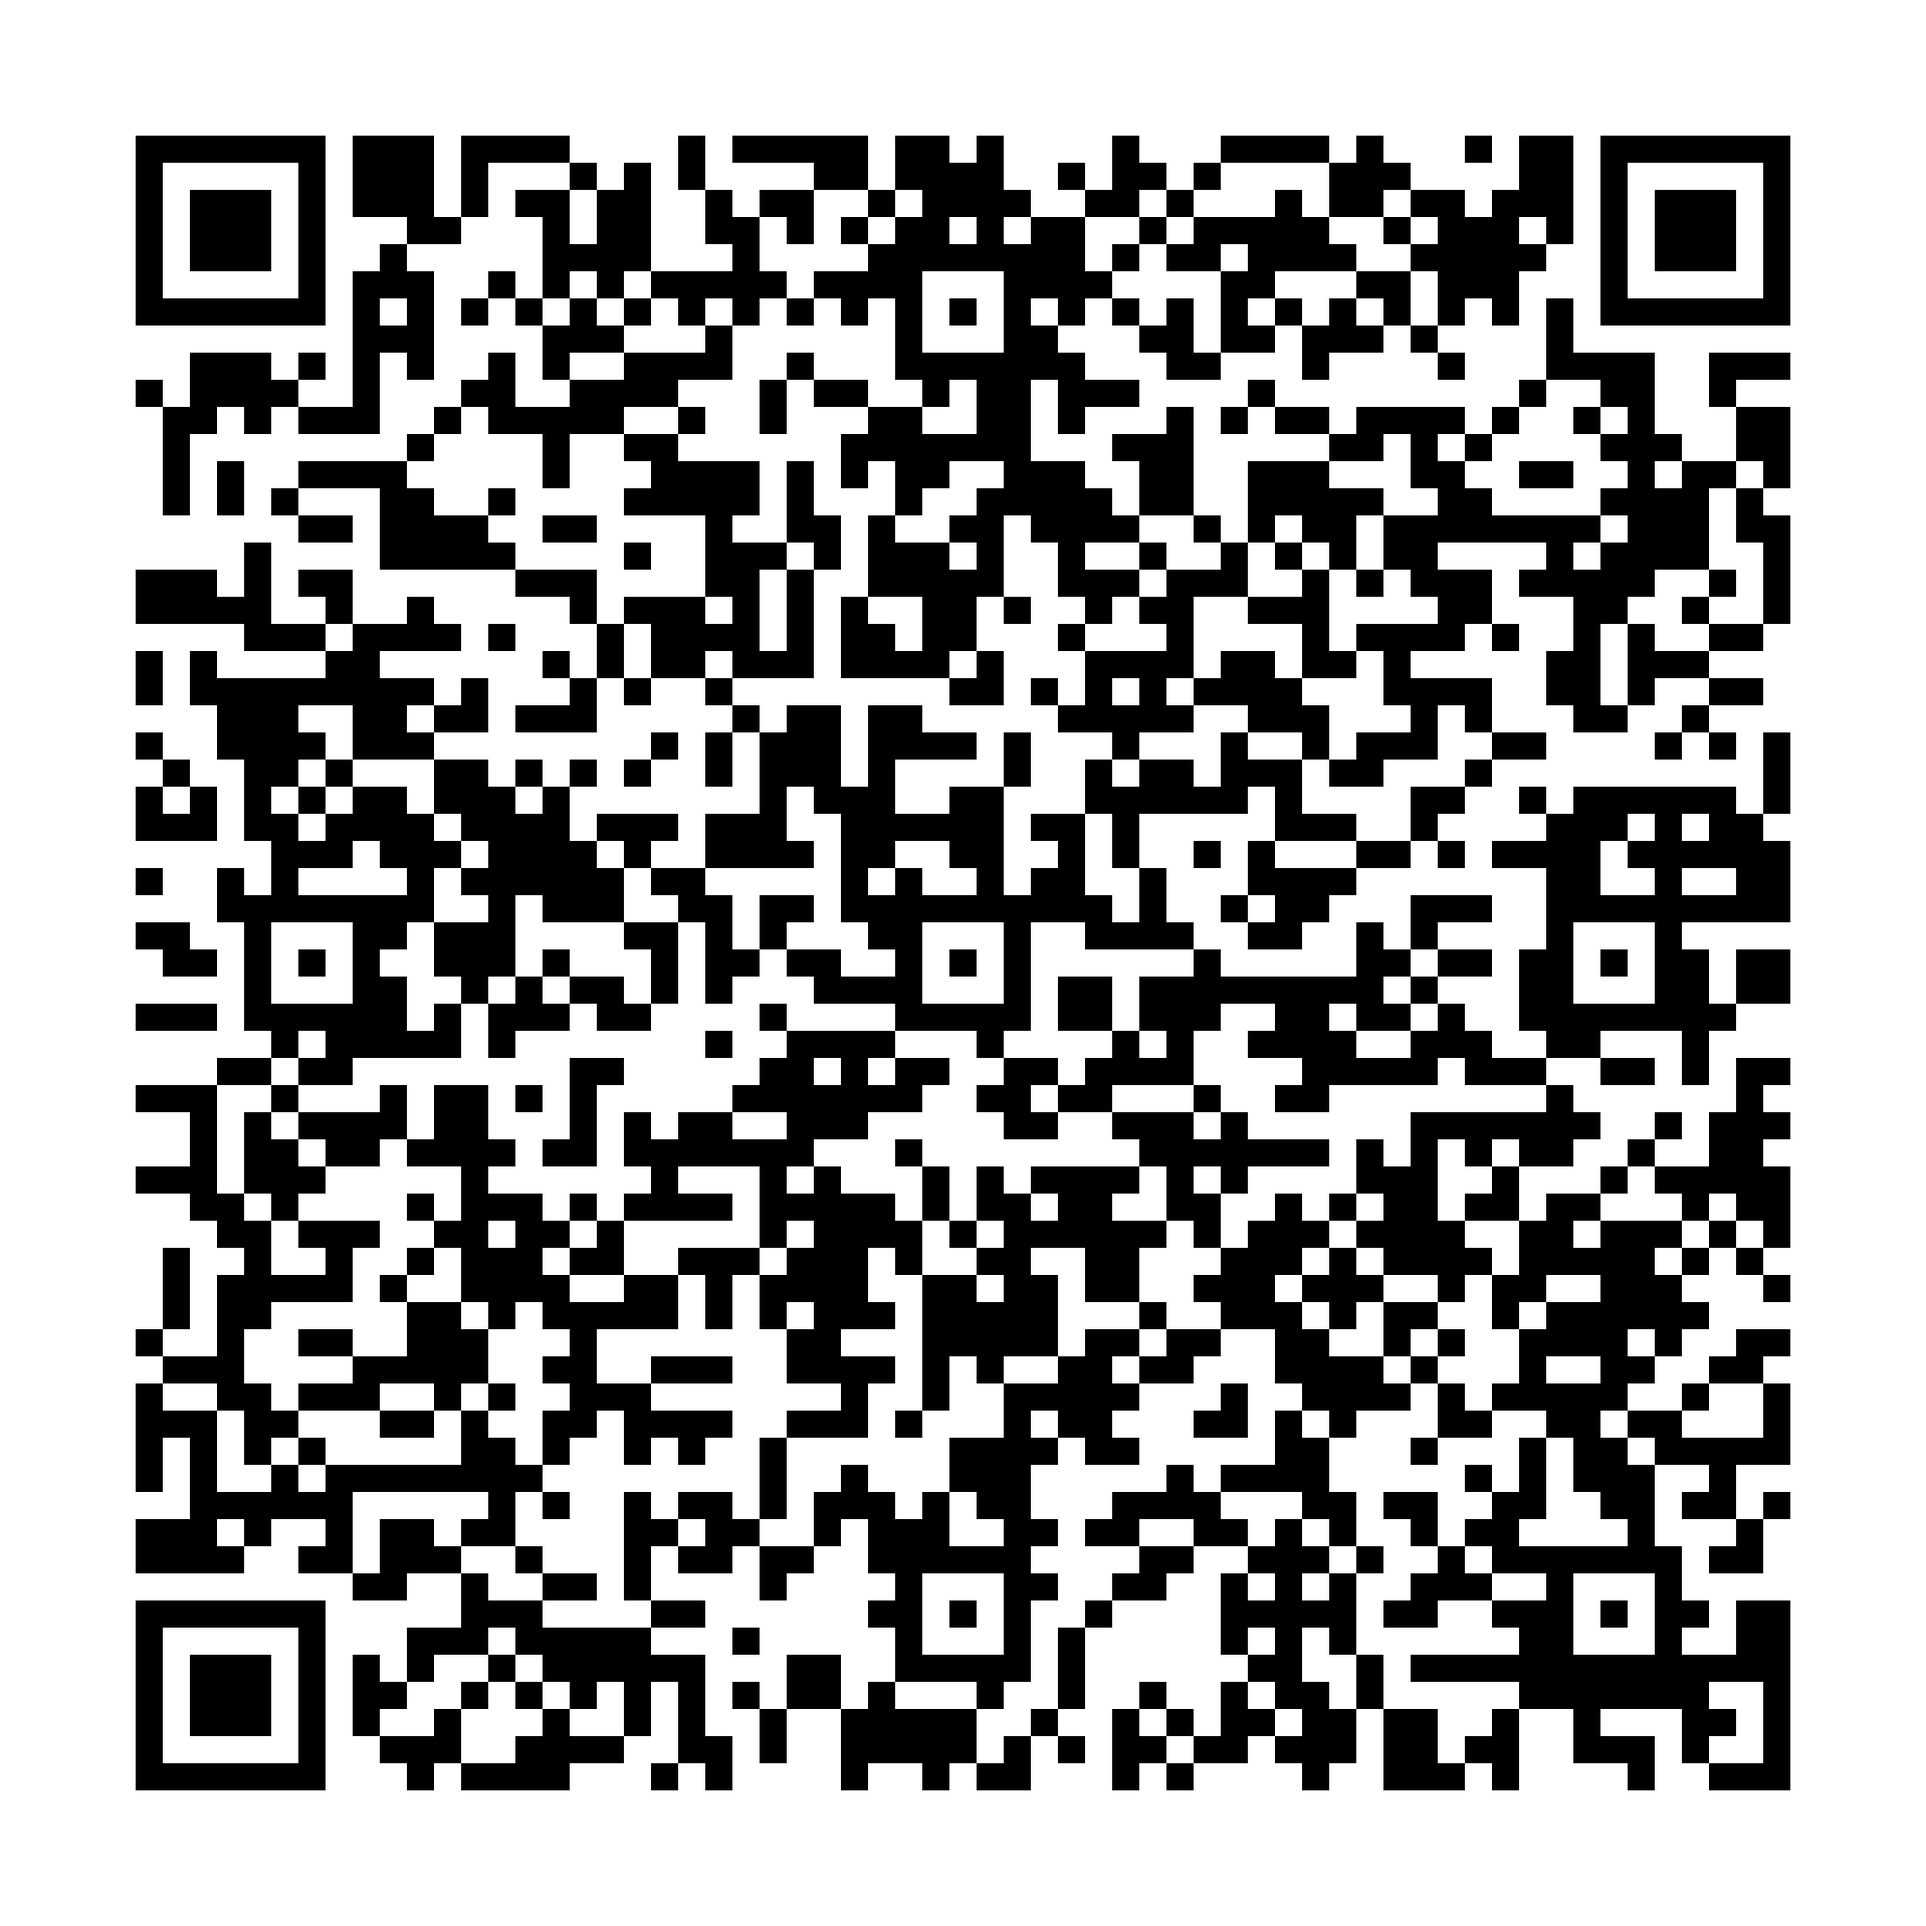
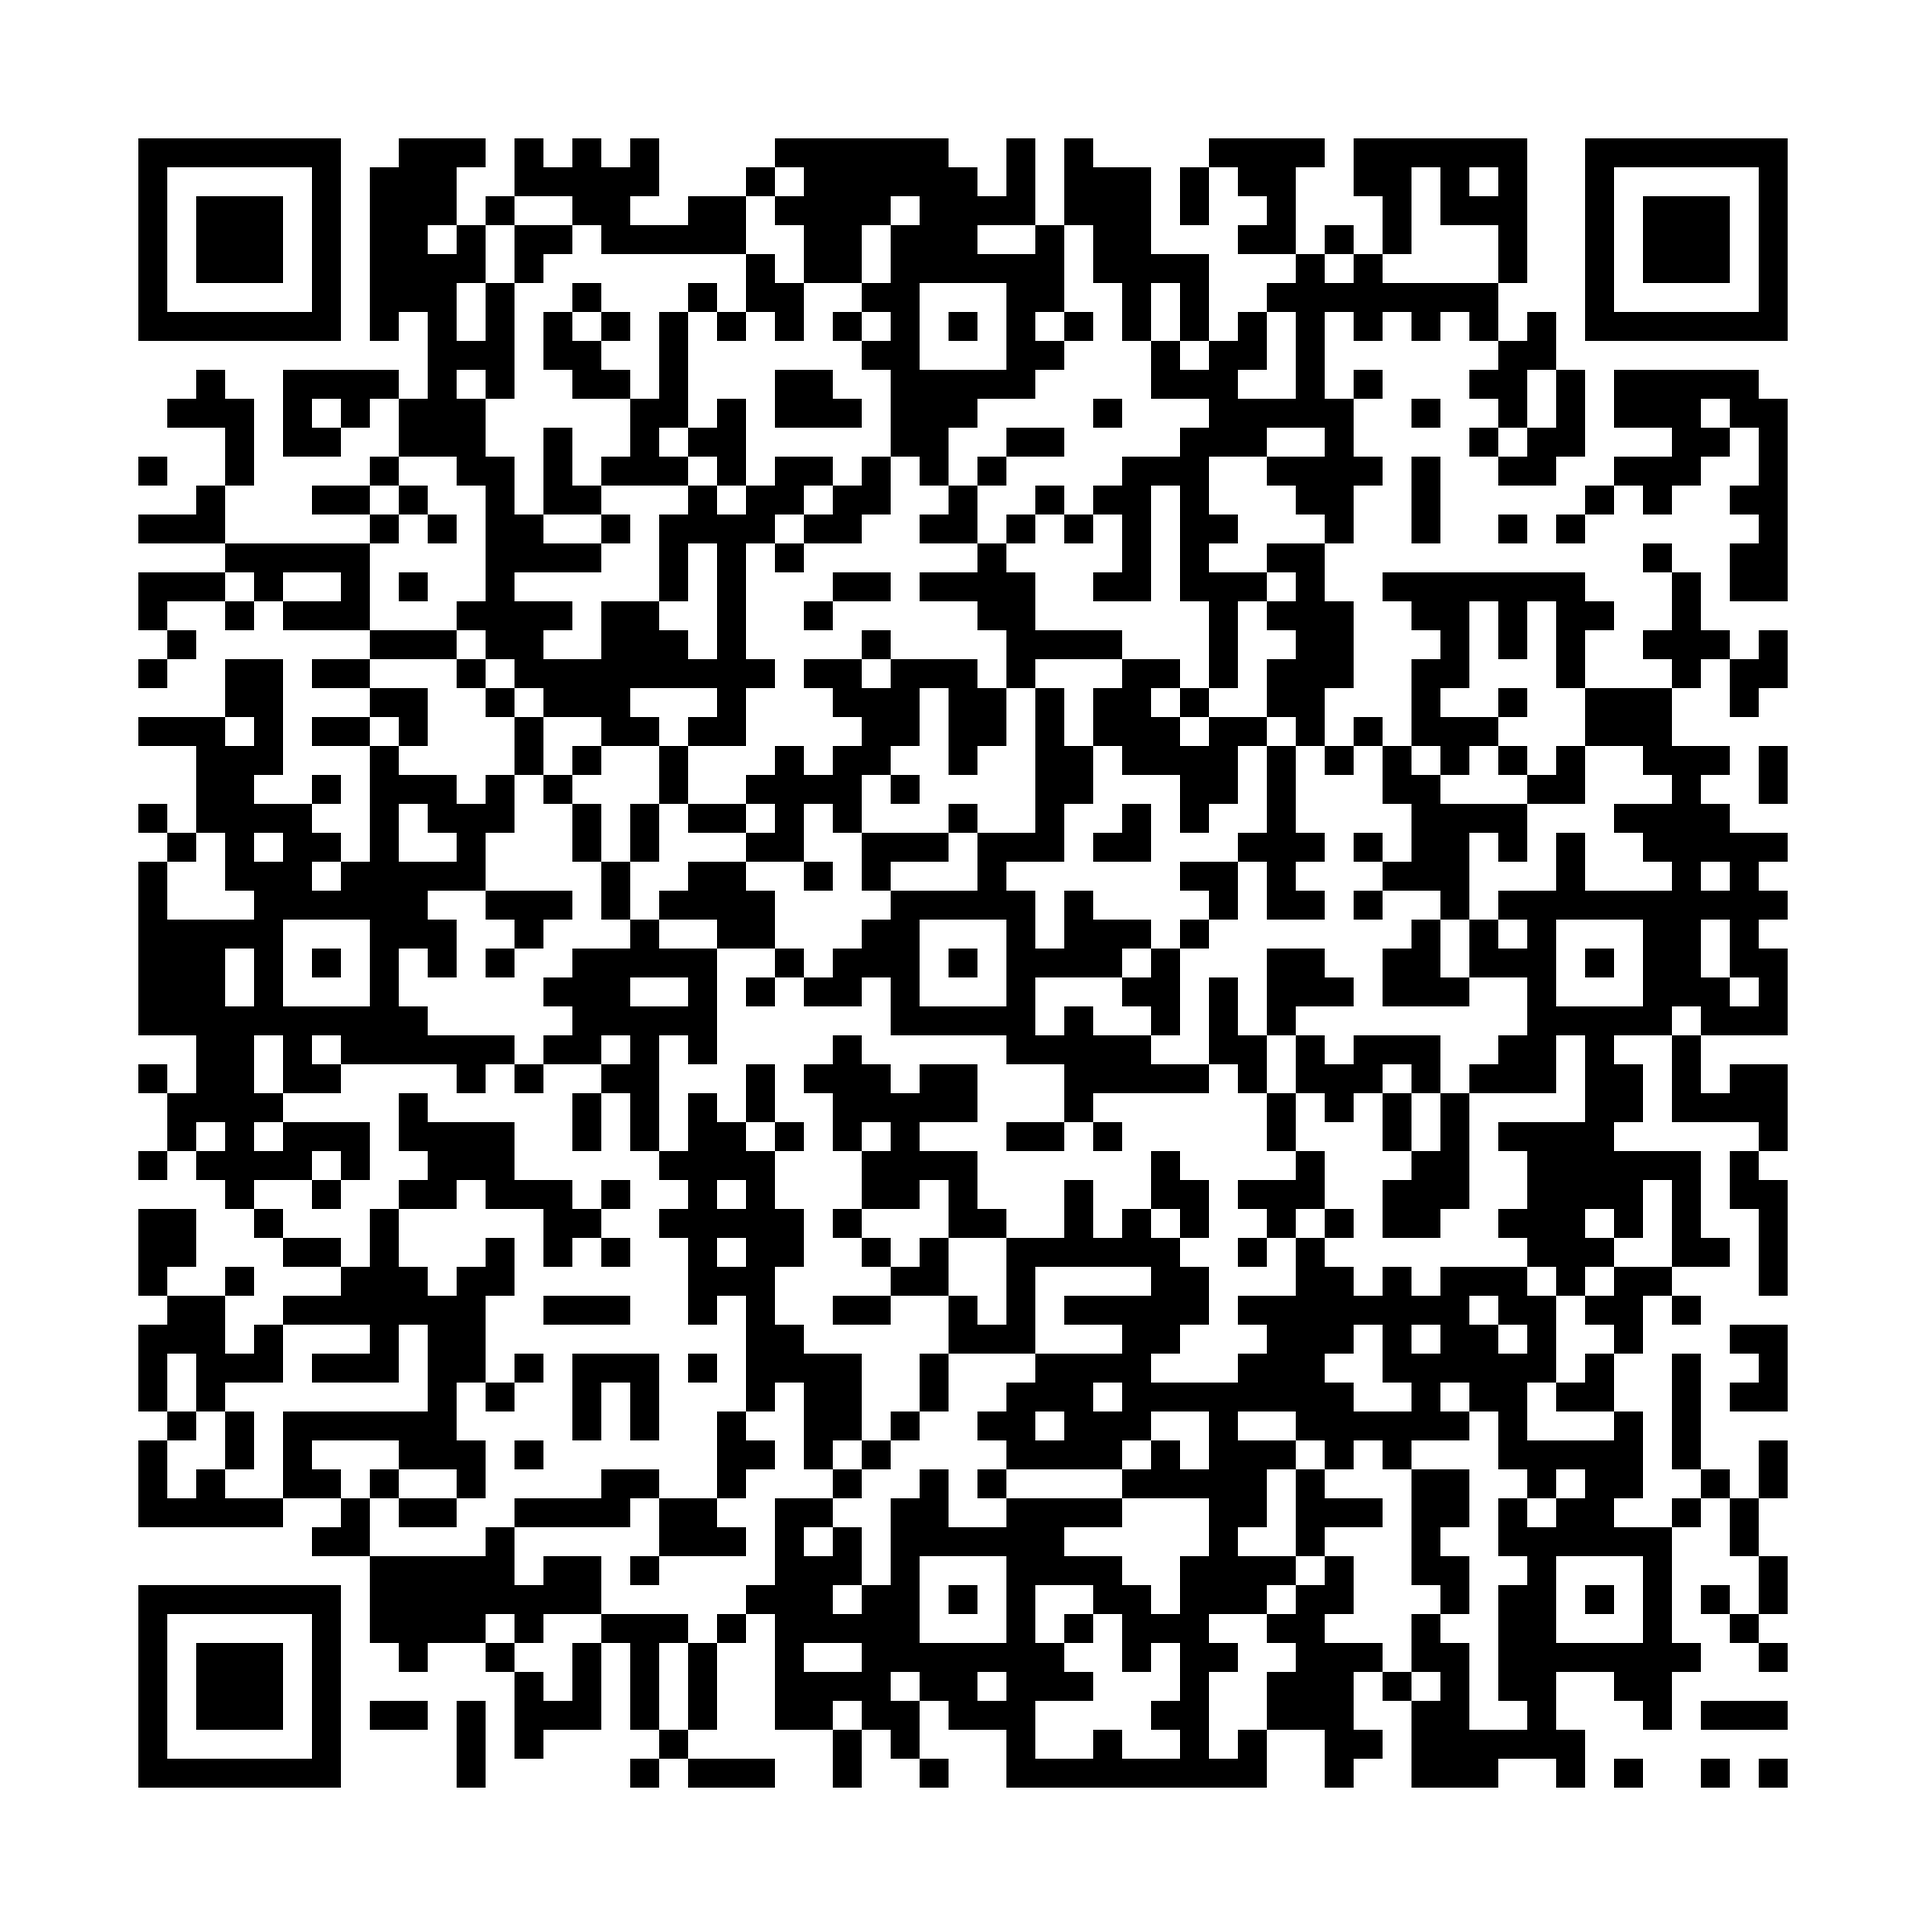
fix: route Android update to live 0.1.64 mirror

diff --git a/android.html b/android.html
@@ -216,7 +216,7 @@
             <li><span class="fact-mark" aria-hidden="true">✓</span><span>PDF、长图、图片资料、ZIP 与文件夹备份</span></li>
           </ul>
           <div class="actions">
-            <a class="primary-button" href="https://yuantu-casepro-downloads-d0255e8-1454163521.tcloudbaseapp.com/downloads/android/yuantu-casepro-android-0.1.64-65.apk" download>下载官网新版 0.1.64</a>
+            <a class="primary-button" href="https://csysum-boop.github.io/casepro-support/downloads/android/yuantu-casepro-android-0.1.64-65.apk" download>下载官网新版 0.1.64</a>
             <a class="secondary-button" href="https://a.app.qq.com/o/simple.jsp?pkgname=com.csysum.casepro.android">应用宝下载 0.1.53</a>
           </div>
           <p class="compatibility">0.1.64 为完整卡片资料包增加系统分享：生成并校验 ZIP 后，可直接选择 QQ、邮箱、网盘等兼容应用；原有“保存到手机”仍保留。可直接覆盖安装并保留原有资料。应用宝当前仍为 0.1.53。</p>
@@ -318,7 +318,7 @@
             <div class="route-row">
               <div class="route-label">官网 APK<span class="recommended">当前新版</span></div>
               <p>0.1.64 的完整卡片导出可选择“系统分享”或“保存到手机”。锁定卡片仍需本机验证，资料包生成失败不会误报为已分享。使用原发布签名，可覆盖安装并保留原有资料。</p>
-              <a class="route-link" href="https://yuantu-casepro-downloads-d0255e8-1454163521.tcloudbaseapp.com/downloads/android/yuantu-casepro-android-0.1.64-65.apk" download>下载 0.1.64</a>
+              <a class="route-link" href="https://csysum-boop.github.io/casepro-support/downloads/android/yuantu-casepro-android-0.1.64-65.apk" download>下载 0.1.64</a>
             </div>
             <div class="route-row">
               <div class="route-label">应用宝</div>
